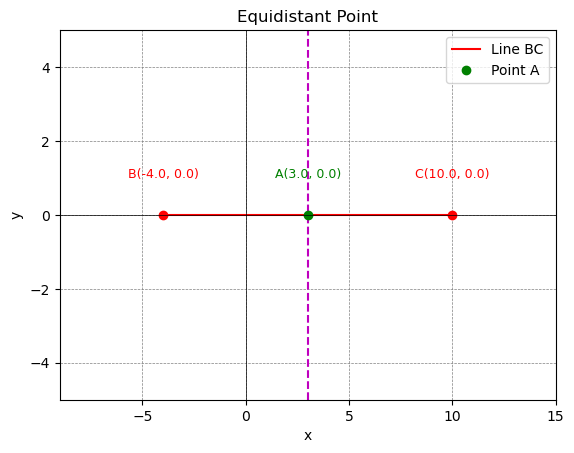
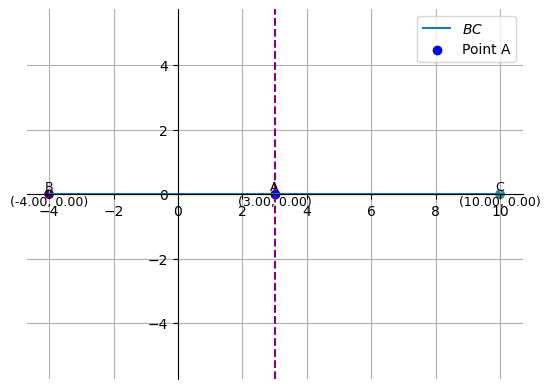
sec

diff --git a/assign5/codes/o1.py b/assign5/codes/o1.py
@@ -1,0 +1,60 @@
+import sys                                          # for path to external scripts
+sys.path.insert(0, '/home/eshan/matgeo/codes/CoordGeo')        # path to my scripts
+import numpy as np
+import numpy.linalg as LA
+import matplotlib.pyplot as plt
+import matplotlib.image as mpimg
+
+# local imports
+from line.funcs import *
+from triangle.funcs import *
+from conics.funcs import circ_gen
+
+# Function to read points from a file
+def read_points_from_file(filename):
+    # Load the data from the file directly into a NumPy array
+    points = np.loadtxt(filename)
+    return points
+
+# Read points from file
+points = read_points_from_file('output.txt')
+
+# Debugging: Print the points array and its shape
+print("Points array:")
+print(points)
+print("Shape of points array:", points.shape)
+
+# Ensure the points array has the correct shape
+if points.ndim == 2 and points.shape[1] == 2:
+    # Extracting points B, C, A
+    B, C, A = points[0], points[1], points[2]
+else:
+    raise ValueError("Points array should be of shape (3, 2)")
+
+
+# Generating line BC
+x_BC = line_gen(B, C)
+
+plt.plot(x_BC[0, :], x_BC[1, :], label='$BC$')
+# Plotting points B, C, A
+plt.scatter([B[0], C[0], A[0]], [B[1], C[1], A[1]], c=[1, 2, 3], label=None)
+plt.text(B[0], B[1], f'B\n({B[0]:.2f}, {B[1]:.2f})', fontsize=9, ha='center', va='center')
+plt.text(C[0], C[1], f'C\n({C[0]:.2f}, {C[1]:.2f})', fontsize=9, ha='center', va='center')
+plt.text(A[0], A[1], f'A\n({A[0]:.2f}, {A[1]:.2f})', fontsize=9, ha='center', va='center')
+
+# Plot vertical line through point A
+plt.axvline(x=A[0], color='purple', linestyle='--', label=None)
+# Add legend for point A
+plt.scatter(A[0], A[1], color='blue', label='Point A')
+
+
+# Customize the plot
+ax = plt.gca()
+ax.spines['top'].set_color('none')
+ax.spines['left'].set_position('zero')
+ax.spines['right'].set_color('none')
+ax.spines['bottom'].set_position('zero')
+plt.grid()  # minor
+plt.axis('equal')
+plt.legend(loc='best')
+plt.savefig('../plots/plot.png', format='png', bbox_inches='tight')

diff --git a/assign5/codes/data.c b/assign5/codes/data.c
@@ -17,9 +17,9 @@ int main() {
     }
 
     // Write the coordinates of B, C, and A to the file
-    fprintf(file, "B(%.2f, %.2f)\n", B_x, B_y);
-    fprintf(file, "C(%.2f, %.2f)\n", C_x, C_y);
-    fprintf(file, "A(%.2f, %.2f)\n", A_x, A_y);
+    fprintf(file, "%.2f %.2f\n", B_x, B_y);
+    fprintf(file, "%.2f %.2f\n", C_x, C_y);
+    fprintf(file, "%.2f %.2f\n", A_x, A_y);
 
     // Close the file
     fclose(file);

diff --git a/assign5/main.tex b/assign5/main.tex
@@ -79,7 +79,7 @@ The point on the $X$ axis which is equidistant from $\brak{-4, 0}$ and $\brak{10
     \begin{figure}[!ht]
     \centering
 	\includegraphics[width=1\textwidth]{plots/plot.png}
-    \caption{}
+    \caption{Equidistant point A on X-Axis}
     \label{fig:plot}
 \end{figure}   
 }
